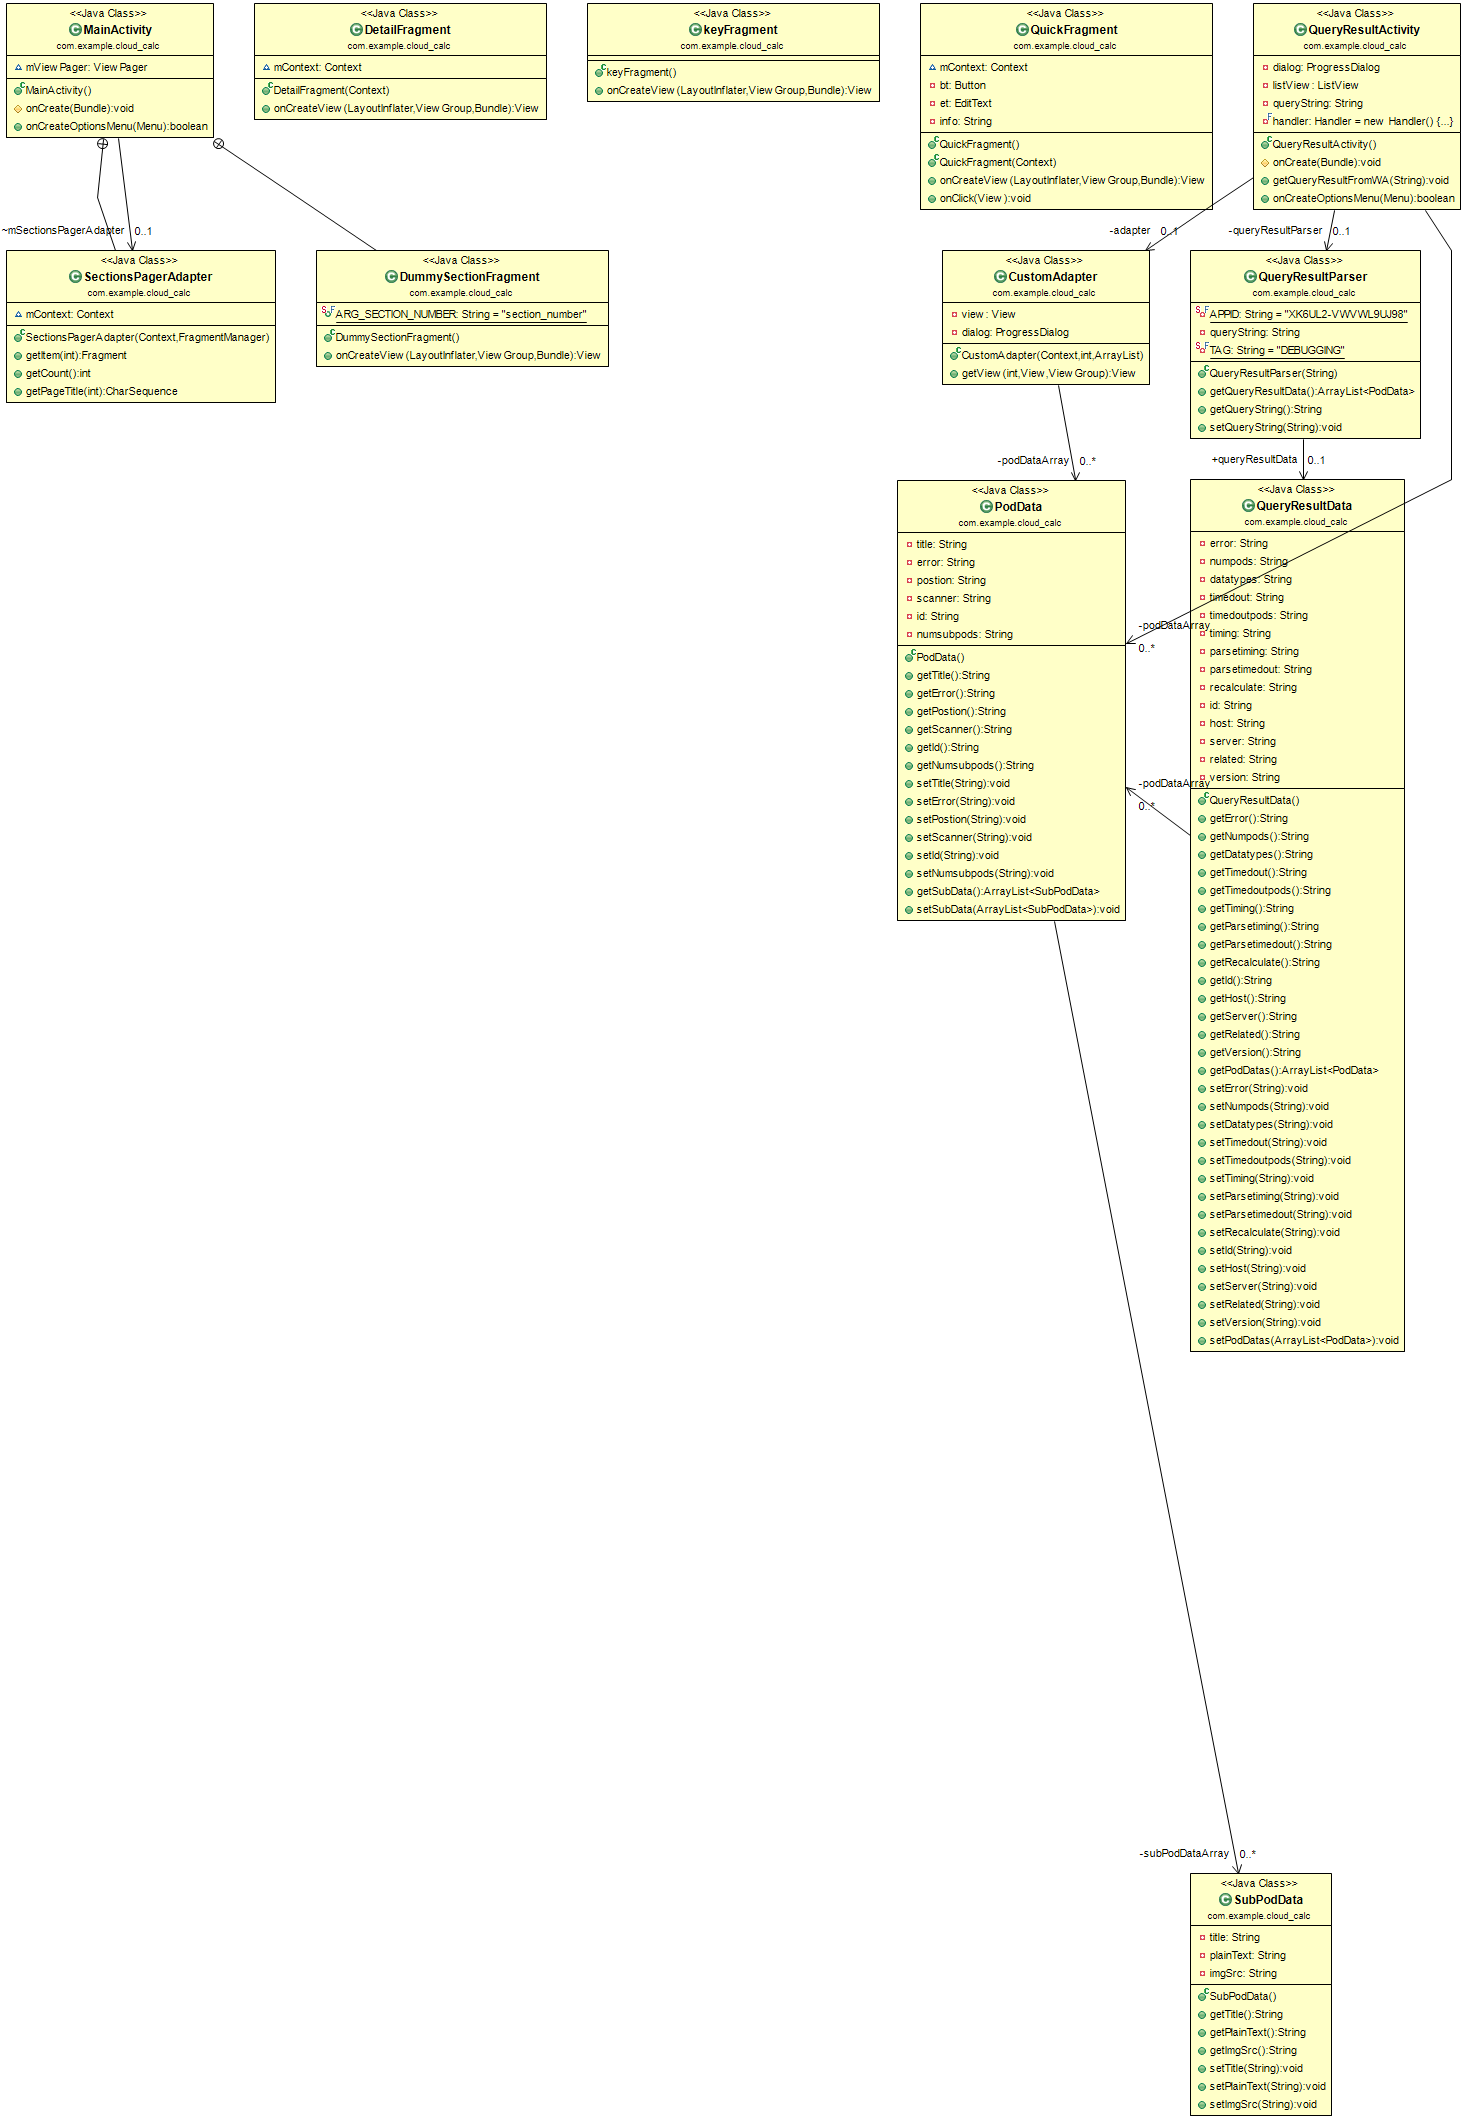
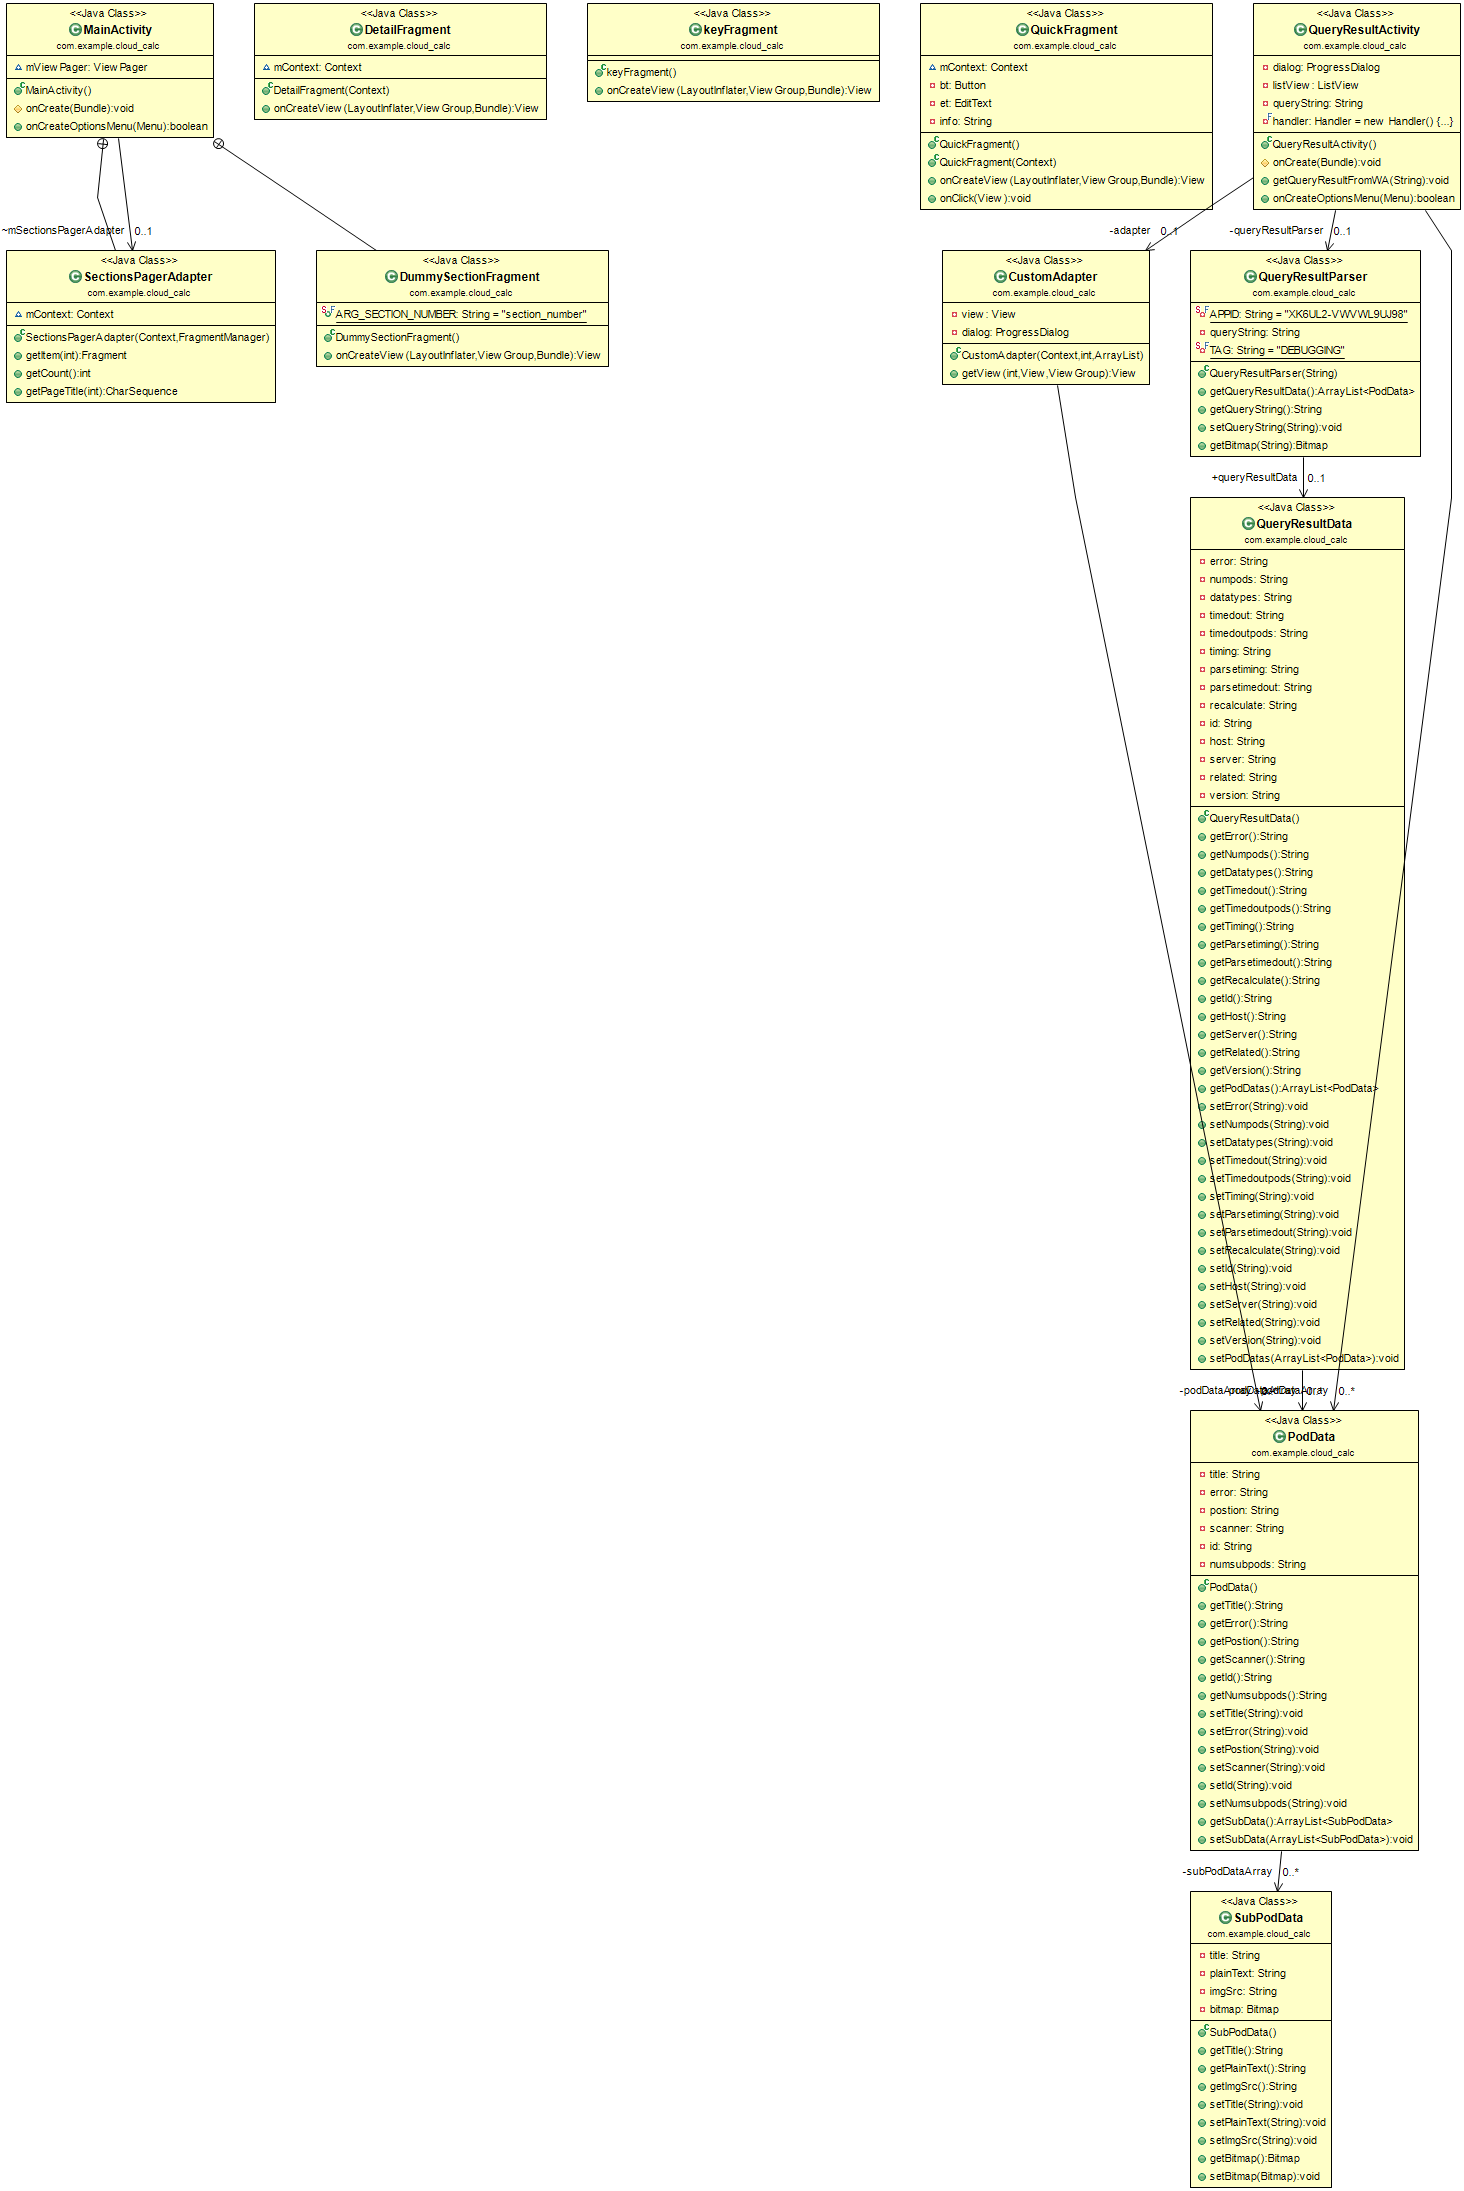
iss 8 :: Adjust image size

diff --git a/src/com/example/cloud_calc/SubPodData.java b/src/com/example/cloud_calc/SubPodData.java
@@ -14,6 +14,8 @@ public class SubPodData {
 	private String plainText;
 	private String imgSrc;
 	private Bitmap bitmap;
+	private int imgWidth;
+	private int imgHeight;
 	
 	/**
 	 * @return the title
@@ -59,18 +61,58 @@ public class SubPodData {
 	public void setImgSrc(String imgSrc) {
 		this.imgSrc = imgSrc;
 	}
-
+	
 	/**
 	 * @return the bitmap
 	 */
 	public Bitmap getBitmap() {
 		return bitmap;
 	}
-
+	
 	/**
-	 * @param bitmap the bitmap to set
+	 * @param bitmap
+	 *            the bitmap to set
 	 */
 	public void setBitmap(Bitmap bitmap) {
 		this.bitmap = bitmap;
+	}
+	
+	/**
+	 * @param dimensions
+	 *            the dimensions to set
+	 */
+	public void setDimensions(int[] dimensions) {
+		this.setImgWidth(dimensions[0]);
+		this.setImgHeight(dimensions[1]);
+	}
+	
+	/**
+	 * @return the imgWidth
+	 */
+	public int getImgWidth() {
+		return imgWidth;
+	}
+	
+	/**
+	 * @return the imgHeight
+	 */
+	public int getImgHeight() {
+		return imgHeight;
+	}
+	
+	/**
+	 * @param imgWidth
+	 *            the imgWidth to set
+	 */
+	public void setImgWidth(int imgWidth) {
+		this.imgWidth = imgWidth;
+	}
+	
+	/**
+	 * @param imgHeight
+	 *            the imgHeight to set
+	 */
+	public void setImgHeight(int imgHeight) {
+		this.imgHeight = imgHeight;
 	}
 }

diff --git a/src/com/example/cloud_calc/QueryResultParser.java b/src/com/example/cloud_calc/QueryResultParser.java
@@ -126,17 +126,18 @@ public class QueryResultParser {
 											.getURL());
 									subPodData.setBitmap(getBitmap(subPodData
 											.getImgSrc()));
+									subPodData
+											.setDimensions(((WAImage) element)
+													.getDimensions());
 									Log.i(TAG,
 											"Images: " + subPodData.getImgSrc());
+									Log.i(TAG, "Images Dimensions: "
+											+ subPodData.getImgWidth() + " x "
+											+ subPodData.getImgHeight());
 								}
 							}
 							Log.w(TAG, "subpod.getContents() loop end");
 							subPodDataArray.add(subPodData);
-						}
-						
-						// Assumptions handling
-						for (WAAssumption assumption : queryResult.getAssumptions()) {
-							
 						}
 						
 						Log.w(TAG, "pod.getSubpods() loop end");

diff --git a/src/com/example/cloud_calc/CustomAdapter.java b/src/com/example/cloud_calc/CustomAdapter.java
@@ -69,6 +69,10 @@ public class CustomAdapter extends ArrayAdapter<Object> {
 						.getPlainText());
 				textViewSubPodPlainText.setVisibility(TextView.VISIBLE);
 			}
+			imageView
+					.setMinimumWidth(podData.getSubData().get(0).getImgWidth() * 2);
+			imageView.setMinimumHeight(podData.getSubData().get(0)
+					.getImgHeight() * 2);
 			imageView.setImageBitmap(podData.getSubData().get(0).getBitmap());
 			
 			// new Thread() {
